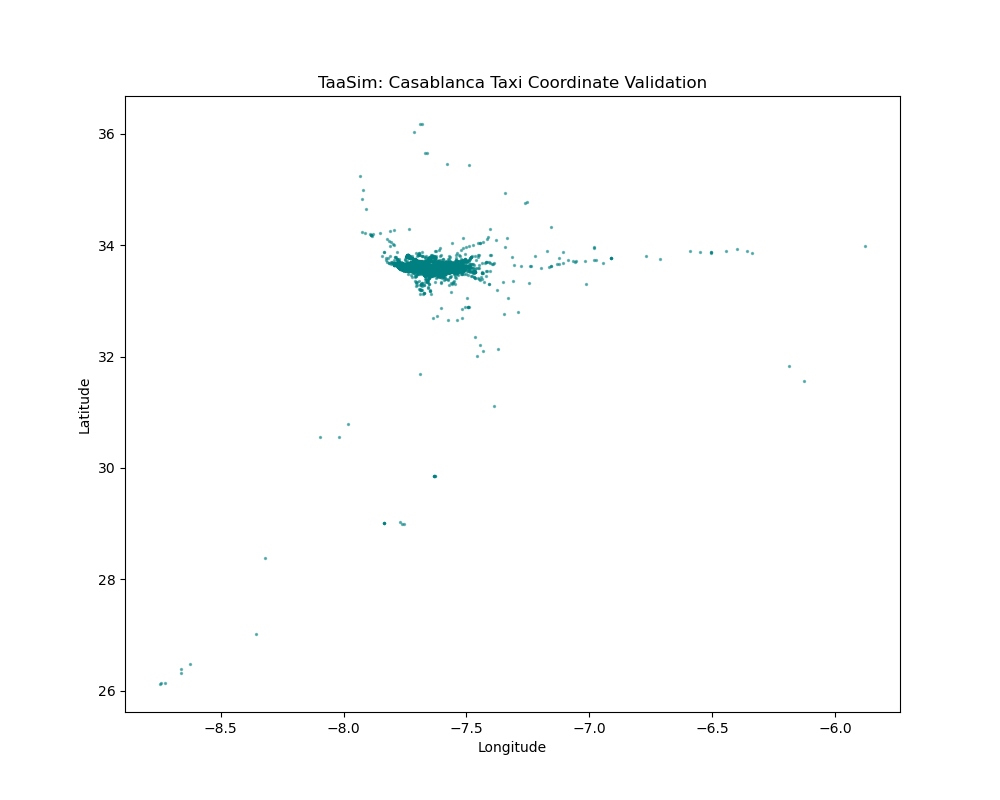
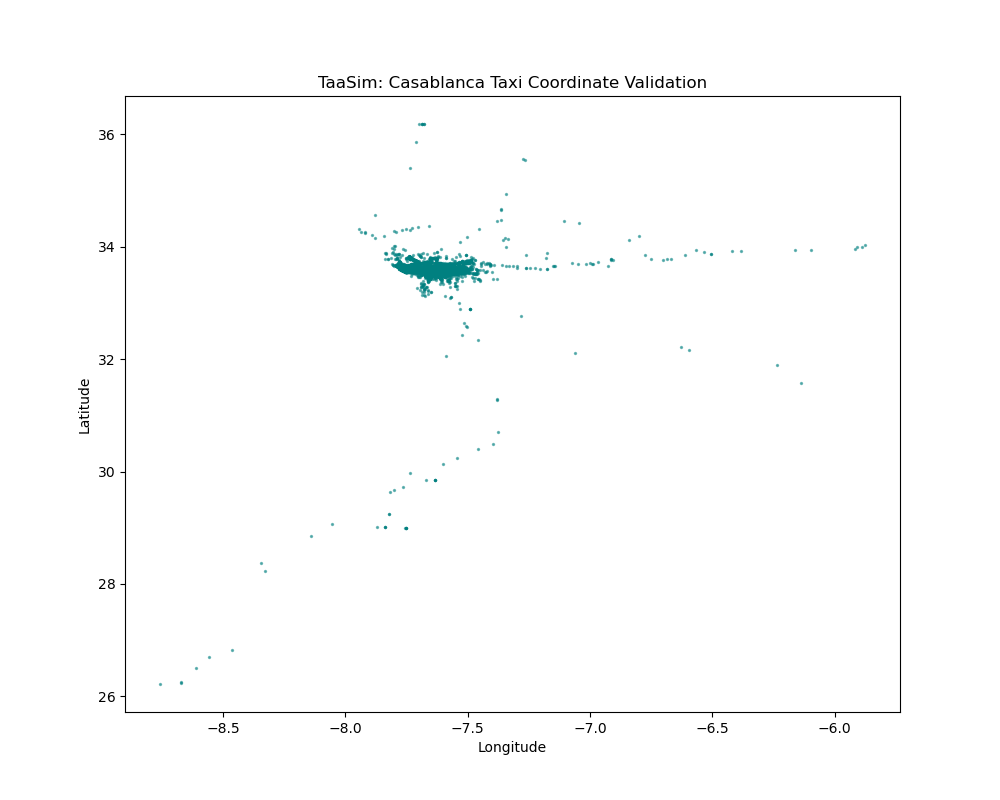
Add path resolution utility for data files in VehicleGPSProducer
- Introduced `_repo_root` function to determine the repository root path.
- Added `_resolve_data_path` function to resolve local relative paths for data files.
- Updated `VehicleGPSProducer` to use the new path resolution for `data_path` initialization.

diff --git a/src/producers/vehicle_gps_producer.py b/src/producers/vehicle_gps_producer.py
@@ -10,6 +10,7 @@ import threading
 import time
 from dataclasses import dataclass
 from datetime import datetime, timezone
+from pathlib import Path
 from typing import Dict, Iterable, Iterator, List, Optional, Tuple
 
 import pandas as pd
@@ -17,6 +18,48 @@ from kafka import KafkaProducer
 
 logging.basicConfig(level=logging.INFO, format="%(asctime)s - %(levelname)s - %(message)s")
 logger = logging.getLogger(__name__)
+
+
+def _repo_root() -> Path:
+    # File lives at: <repo>/src/producers/vehicle_gps_producer.py
+    return Path(__file__).resolve().parents[2]
+
+
+def _resolve_data_path(path: str) -> str:
+    """Resolve a local relative path.
+
+    The docs/.env assume repo-relative paths (e.g., raw/porto-trips/train.csv).
+    When running from a subfolder (VS Code "Run Python File" often uses the
+    file's directory as CWD), those paths break.
+
+    Resolution order:
+    1) As provided (relative to current working directory)
+    2) Relative to repository root
+
+    S3 paths are returned unchanged.
+    """
+
+    if not path:
+        return path
+
+    if path.startswith(("s3a://", "s3://")):
+        return path
+
+    p = Path(path)
+    if p.is_absolute():
+        return str(p)
+
+    cwd_candidate = Path.cwd() / p
+    if cwd_candidate.exists():
+        return str(cwd_candidate.resolve())
+
+    repo_candidate = _repo_root() / p
+    if repo_candidate.exists():
+        resolved = str(repo_candidate.resolve())
+        logger.info("Resolved data path '%s' -> '%s' (repo-relative).", path, resolved)
+        return resolved
+
+    return path
 
 
 def _unix_to_iso8601(ts: int) -> str:
@@ -145,7 +188,7 @@ class VehicleGPSProducer:
 
         self.broker = broker
         self.topic = topic
-        self.data_path = data_path
+        self.data_path = _resolve_data_path(data_path)
         self.speed = speed
         self.noise_sigma_deg = noise_sigma_deg
         self.blackout_prob = blackout_prob